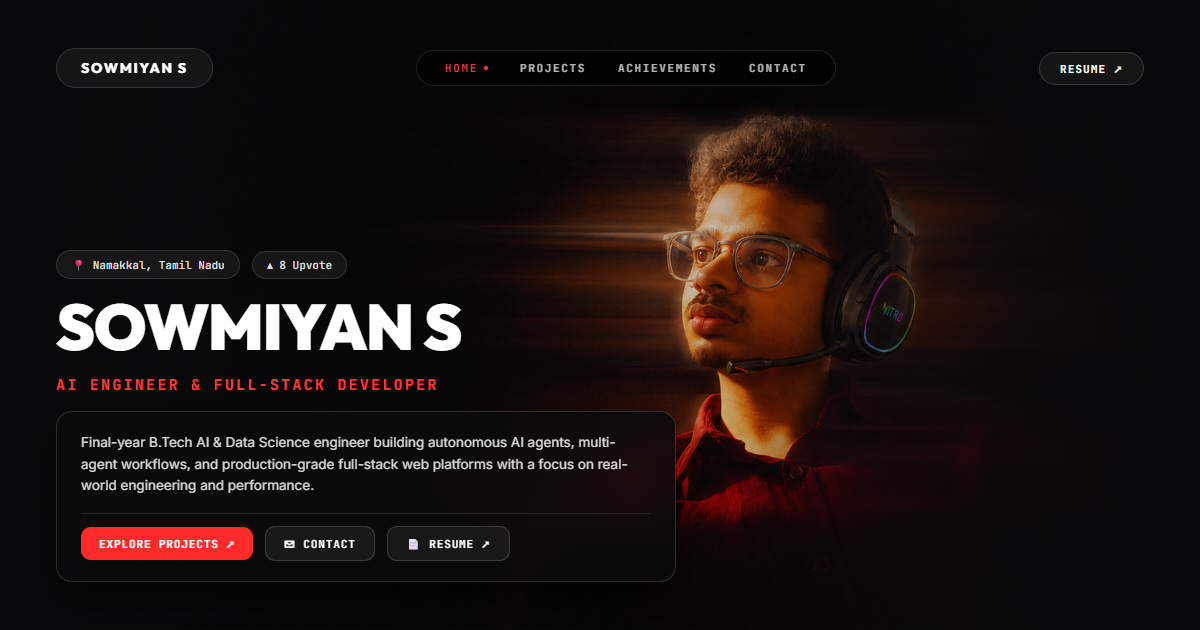
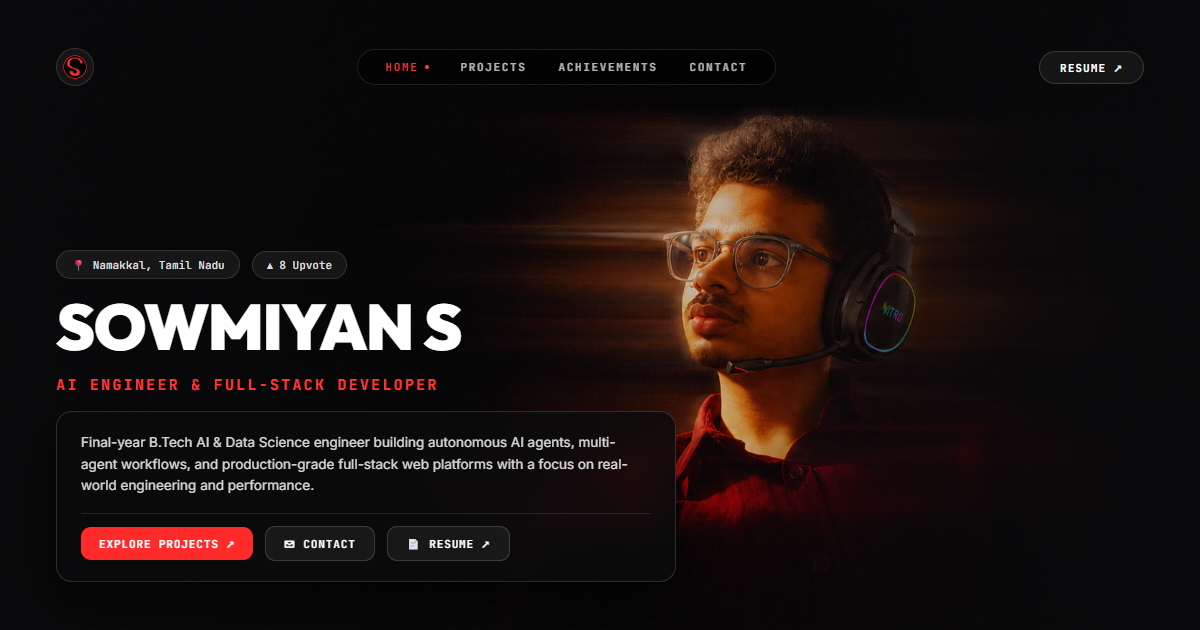
feat: implement automated OG image generation script and add TechNav component

diff --git a/src/components/TechNav.tsx b/src/components/TechNav.tsx
@@ -23,12 +23,15 @@ const TechNav = () => {
     return (
         <nav className="fixed top-0 left-0 w-full z-50 px-3 sm:px-6 py-3 sm:py-4 flex justify-center pointer-events-none">
             <div className="max-w-5xl w-full bg-neutral-950/80 border border-white/15 backdrop-blur-xl pointer-events-auto px-4 sm:px-6 py-2.5 flex items-center justify-between rounded-full shadow-[0_8px_32px_rgba(0,0,0,0.5)]">
-                {/* Brand Logo / Name */}
+                {/* Brand Logo Icon */}
                 <Link 
                     to="/" 
-                    className="font-heading font-black text-xs sm:text-sm tracking-wider text-white hover:text-red-400 transition-colors uppercase select-none"
+                    className="flex items-center gap-2 group transition-transform hover:scale-105"
+                    aria-label="Home"
                 >
-                    SOWMIYAN S
+                    <div className="w-8 h-8 rounded-full bg-neutral-900 border border-white/20 flex items-center justify-center p-1 group-hover:border-red-500 transition-colors shadow-sm">
+                        <img src="/favicon.svg" alt="S Logo" className="w-full h-full object-contain rounded-full" />
+                    </div>
                 </Link>
 
                 {/* Center links (desktop) */}
